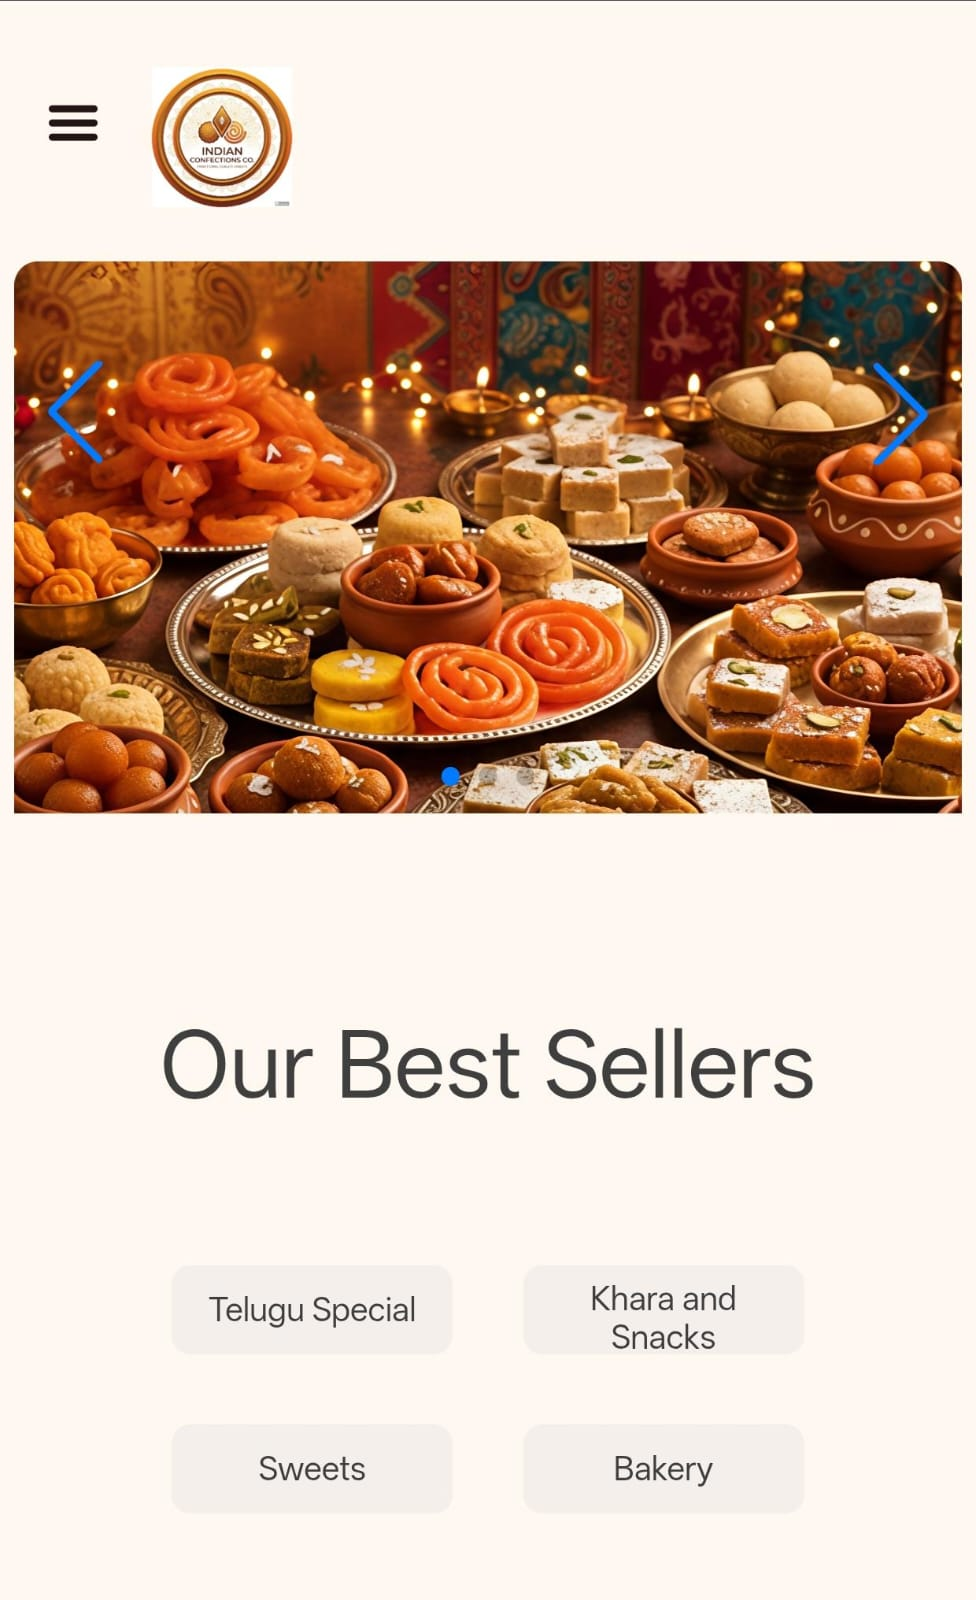
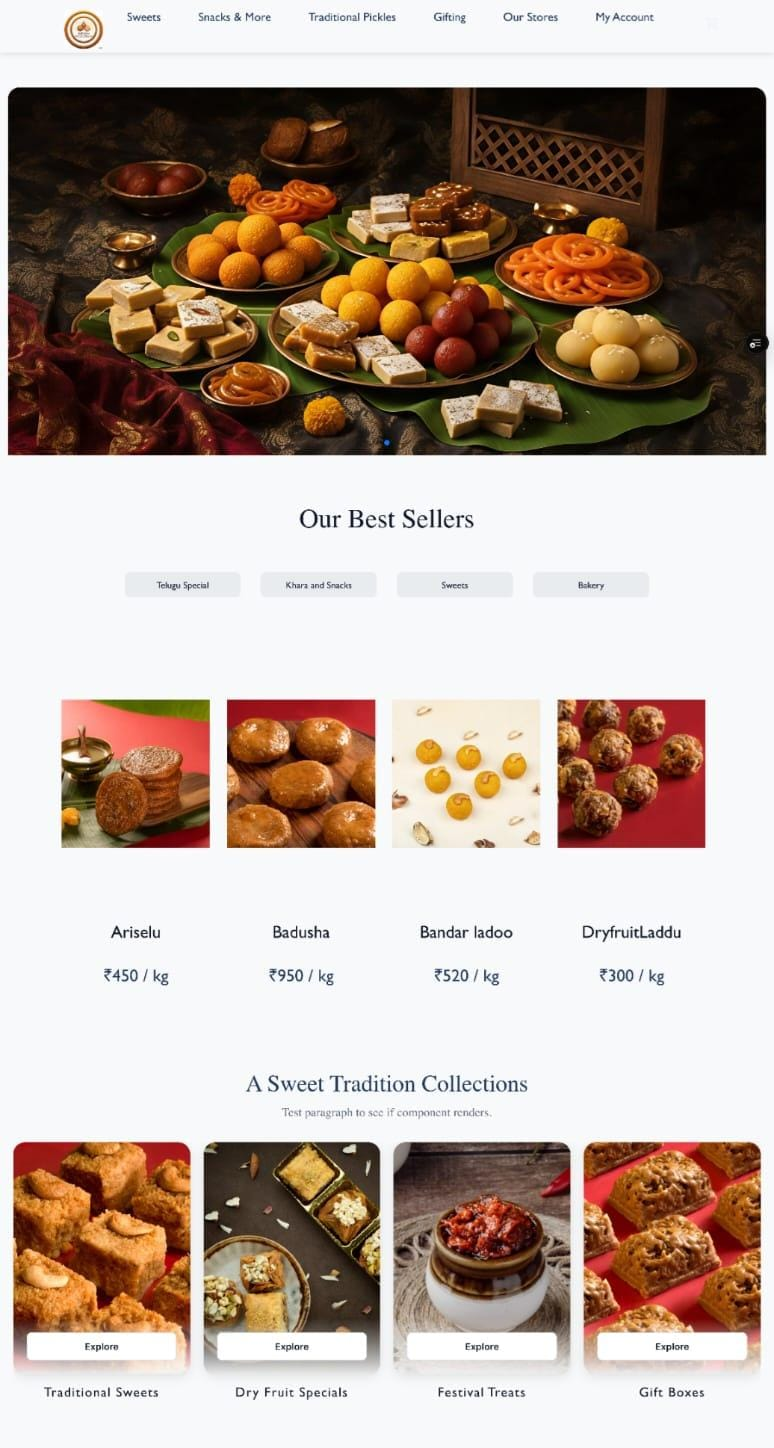
images added

diff --git a/lib/data.ts b/lib/data.ts
@@ -152,163 +152,160 @@ export const PROJECTS: IProject[] = [
         `,
         techStack: [
             'React.js',
-            'Tailwind CSS',
+            'CSS',
             'Node.js',
             'Express.js',
             'MongoDB',
             'JWT Authentication',
             'REST APIs',
         ],
-<<<<<<< Updated upstream
-        thumbnail: '/projects/thumbnail/mti-electronics.webp',
-        longThumbnail: '/projects/long/mti-electronics.webp',
-=======
-        thumbnail: '/projects/thumbnail/storelytumbnail.jpeg',
-        longThumbnail: '/projects/thumbnail/storelytumbnail.jpeg',
->>>>>>> Stashed changes
+        thumbnail: '/projects/thumbnail/storely-thumbanil.jpeg',
+        longThumbnail: '/projects/long/storely.png',
         images: [
-            '/projects/images/mti-electronics-1.webp',
-            '/projects/images/mti-electronics-2.webp',
+            '/projects/images/storely-1.png',
+            '/projects/images/storely-2.png',
+            '/projects/images/storely-3.png',
         ],
     },
     {
-        title: 'Epikcart',
-        slug: 'epikcart',
+        title: 'Kwality-Sweets',
+        slug: 'Kwality-Sweets',
         techStack: [
-            'React',
-            'Redux',
-            'React i18n',
-            'Tailwind CSS',
+            'React Js',
+            'Slider Js',
+            'CSS',
             'Framer Motion',
             'debouncing',
-            'Api Integration',
         ],
-<<<<<<< Updated upstream
-        thumbnail: '/projects/thumbnail/epikcart.jpg',
-        longThumbnail: '/projects/long/epikcart.jpg',
-=======
-        thumbnail: '/projects/thumbnail/Sweets_delight.jpeg',
-        longThumbnail: '/projects/thumbnail/Sweets_delight.jpeg',
->>>>>>> Stashed changes
+        thumbnail: '/projects/thumbnail/sweets_delight.jpeg',
+        longThumbnail: '/projects/long/sweetsdelight.png',
         images: [
-            '/projects/images/epikcart-1.png',
-            '/projects/images/epikcart-2.png',
-            '/projects/images/epikcart-3.png',
-            '/projects/images/epikcart-4.png',
-            '/projects/images/epikcart-5.png',
+            '/projects/images/sweetsdelight.1.png',
+            '/projects/images/sweetsdelight-2.png',
+            '/projects/images/sweetsdelight-3.png',
+            '/projects/images/sweetsdelight-4.png',
         ],
-        liveUrl: 'https://demo.epikcart.siphertech.com/',
-        year: 2023,
-        description: `Epikcart is a feature-rich, scalable e-commerce platform tailored for large businesses. It features dynamic product filtering, multi-language support with RTL, advanced inventory management, order tracking, and refund systems, offering a comprehensive solution for multi-vendor operations.`,
-        role: `As the frontend developer in a team of five, I: <br/>
-        - Built the frontend from scratch using React, Redux, RTK Query, and Tailwind CSS.<br/>
-        - Developed dynamic filtering logic for the product search page with admin-configurable parameters.<br/>
-        - Integrated multi-language support with React i18n, including RTL handling.<br/>
-        - Delivered a responsive, user-friendly interface in collaboration with the UI/UX designer.`,
-    },
-    {
-        title: 'Resume Roaster',
-        slug: 'resume-roaster',
-        techStack: [
-            'GPT-4',
-            'Next.js',
-            'Postgressql',
-            'Prisma',
-            'Tailwind CSS',
-        ],
-        thumbnail: '/projects/thumbnail/resume-roaster.jpg',
-        longThumbnail: '/projects/long/resume-roaster.jpg',
-        images: [
-            '/projects/images/resume-roaster-1.png',
-            '/projects/images/resume-roaster-2.png',
-            '/projects/images/resume-roaster-3.png',
-        ],
-        liveUrl: 'https://resume-roaster.vercel.app/',
-        year: 2023,
-        description:
-            'Resume Roaster is a web application designed to provide tailored resume feedback and professional writing services. Built with Next.js, PostgreSQL, Prisma, and Tailwind CSS, it integrates GPT-4 for AI-powered recommendations. The platform also includes peer-to-peer reviews with a points-based system, fostering a collaborative and engaging experience. Targeting freshers, experienced professionals, and programmers, it helps optimize resumes for job-specific success.',
-        role: `As the sole developer and business owner, I:<br/>
-        - Designed and developed the platform end-to-end using Next.js, PostgreSQL, Prisma, and Tailwind CSS.<br/>
-        - Integrated GPT-4 for AI-driven feedback and insights.<br/>
-        - Implemented complex SQL queries, including one to identify the top two resumes based on user points.`,
-    },
-    {
-        title: 'Real Estate',
-        slug: 'property-pro',
-        techStack: [
-            'React.js',
-            'Redux',
-            'Tailwind CSS',
-            'React i18n',
-            'Framer Motion',
-        ],
-        thumbnail: '/projects/thumbnail/property-pro.jpg',
-        longThumbnail: '/projects/long/property-pro.jpg',
-        images: [
-            '/projects/images/property-pro-1.png',
-            '/projects/images/property-pro-2.png',
-            '/projects/images/property-pro-3.png',
-        ],
-        liveUrl: 'https://demo.propertypro.siphertech.com/',
-        year: 2023,
-        description:
-            'PropertyPro is a real estate management platform offering users a seamless experience to explore, manage, and view property listings. The application emphasizes accessibility and responsive design, ensuring a smooth interface across devices.',
-        role: `As the frontend developer, I:<br/>
-        - Built the frontend using React, Redux, RTK Query, Framer Motion, and Tailwind CSS.<br/>
-        - Integrated dynamic state management for efficient handling of property data.<br/>
-        - Implemented multi-language support with React i18n to cater to diverse audiences.<br/>
-        - Enhanced user interaction with animations and transitions using Framer Motion.`,
-    },
-    {
-        title: 'Consulting Finance',
-        slug: 'crenotive',
-        techStack: ['HTML', 'CSS & SCSS', 'Javascript', 'Bootstrap'],
-        thumbnail: '/projects/thumbnail/consulting-finance.jpg',
-        longThumbnail: '/projects/long/consulting-finance.jpg',
-        images: [
-            '/projects/images/consulting-finance-1.png',
-            '/projects/images/consulting-finance-2.png',
-            '/projects/images/consulting-finance-3.png',
-        ],
-        sourceCode: 'https://github.com/Tajmirul/crenotive',
-        liveUrl: 'https://crenotive.netlify.app/',
-        year: 2023,
-        description:
-            'I developed Crenotive, a portfolio website using Html, SASS, and jQuery to showcase services and expertise. The design focuses on responsive user experience and effective presentation of professional achievements.',
-        role: ``,
-    },
-    {
-        title: 'devLinks',
-        slug: 'devLinks',
-        techStack: ['Next.js', 'Formik', 'Drag & Drop', 'Tailwind CSS'],
-        thumbnail: '/projects/thumbnail/devLinks.jpg',
-        longThumbnail: '/projects/long/devLinks.jpg',
-        images: [
-            '/projects/images/devLinks-1.png',
-            '/projects/images/devLinks-2.png',
-            '/projects/images/devLinks-3.png',
-        ],
-        sourceCode: 'https://github.com/Tajmirul/devsLink',
-        liveUrl: 'https://devlinks-demo.vercel.app/auth/signin',
-        year: 2023,
-        description: `One of the most challenging projects in Frontend Mentor.<br/><br/>
+        liveUrl: 'https://sweetsdelight.vercel.app/',
+        year: 2025,
+        description: `Sweets Delight is a scalable and interactive e-commerce frontend inspired by traditional Indian sweet brands. The application incorporates dynamic product rendering, animated UI transitions using Framer Motion, and responsive carousels built with Swiper.js. The project emphasizes modular design, maintainability, and customizable theming through CSS root variables.`,
 
-            I developed a LinkSharing App as part of the Frontend Mentor challenge, utilizing React, Redux, and Tailwind CSS to create a responsive and feature-rich platform. The app allows users to share, save, and explore links, with a focus on intuitive design and smooth navigation. Advanced state management ensures efficient data handling for user interactions.`,
-        role: ``,
-    },
+        role: `As the sole frontend developer, I:<br/>
+- Architected and developed the complete frontend using React, focusing on performance and maintainability.<br/>
+- Implemented Swiper.js-based interactive sliders for hero and product showcases to improve visual engagement.<br/>
+- Integrated Framer Motion to deliver smooth animations, transitions, and enhanced user experience.<br/>
+- Designed and built reusable UI components including Navbar, Hero, ProductCard, Products, and Footer.<br/>
+- Structured the project with a scalable and clean folder architecture to support future feature expansion.<br/>
+- Developed a global theming system using CSS variables, enabling flexible and consistent design updates.<br/>
+- Optimized layouts for responsiveness, ensuring a seamless experience across devices and screen sizes.`,
+},
+    // {
+    //     title: 'Resume Roaster',
+    //     slug: 'resume-roaster',
+    //     techStack: [
+    //         'GPT-4',
+    //         'Next.js',
+    //         'Postgressql',
+    //         'Prisma',
+    //         'Tailwind CSS',
+    //     ],
+    //     thumbnail: '/projects/thumbnail/resume-roaster.jpg',
+    //     longThumbnail: '/projects/long/resume-roaster.jpg',
+    //     images: [
+    //         '/projects/images/resume-roaster-1.png',
+    //         '/projects/images/resume-roaster-2.png',
+    //         '/projects/images/resume-roaster-3.png',
+    //     ],
+    //     liveUrl: 'https://resume-roaster.vercel.app/',
+    //     year: 2023,
+    //     description:
+    //         'Resume Roaster is a web application designed to provide tailored resume feedback and professional writing services. Built with Next.js, PostgreSQL, Prisma, and Tailwind CSS, it integrates GPT-4 for AI-powered recommendations. The platform also includes peer-to-peer reviews with a points-based system, fostering a collaborative and engaging experience. Targeting freshers, experienced professionals, and programmers, it helps optimize resumes for job-specific success.',
+    //     role: `As the sole developer and business owner, I:<br/>
+    //     - Designed and developed the platform end-to-end using Next.js, PostgreSQL, Prisma, and Tailwind CSS.<br/>
+    //     - Integrated GPT-4 for AI-driven feedback and insights.<br/>
+    //     - Implemented complex SQL queries, including one to identify the top two resumes based on user points.`,
+    // },
+    // {
+    //     title: 'Real Estate',
+    //     slug: 'property-pro',
+    //     techStack: [
+    //         'React.js',
+    //         'Redux',
+    //         'Tailwind CSS',
+    //         'React i18n',
+    //         'Framer Motion',
+    //     ],
+    //     thumbnail: '/projects/thumbnail/property-pro.jpg',
+    //     longThumbnail: '/projects/long/property-pro.jpg',
+    //     images: [
+    //         '/projects/images/property-pro-1.png',
+    //         '/projects/images/property-pro-2.png',
+    //         '/projects/images/property-pro-3.png',
+    //     ],
+    //     liveUrl: 'https://demo.propertypro.siphertech.com/',
+    //     year: 2023,
+    //     description:
+    //         'PropertyPro is a real estate management platform offering users a seamless experience to explore, manage, and view property listings. The application emphasizes accessibility and responsive design, ensuring a smooth interface across devices.',
+    //     role: `As the frontend developer, I:<br/>
+    //     - Built the frontend using React, Redux, RTK Query, Framer Motion, and Tailwind CSS.<br/>
+    //     - Integrated dynamic state management for efficient handling of property data.<br/>
+    //     - Implemented multi-language support with React i18n to cater to diverse audiences.<br/>
+    //     - Enhanced user interaction with animations and transitions using Framer Motion.`,
+    // },
+    // {
+    //     title: 'Consulting Finance',
+    //     slug: 'crenotive',
+    //     techStack: ['HTML', 'CSS & SCSS', 'Javascript', 'Bootstrap'],
+    //     thumbnail: '/projects/thumbnail/consulting-finance.jpg',
+    //     longThumbnail: '/projects/long/consulting-finance.jpg',
+    //     images: [
+    //         '/projects/images/consulting-finance-1.png',
+    //         '/projects/images/consulting-finance-2.png',
+    //         '/projects/images/consulting-finance-3.png',
+    //     ],
+    //     sourceCode: 'https://github.com/Tajmirul/crenotive',
+    //     liveUrl: 'https://crenotive.netlify.app/',
+    //     year: 2023,
+    //     description:
+    //         'I developed Crenotive, a portfolio website using Html, SASS, and jQuery to showcase services and expertise. The design focuses on responsive user experience and effective presentation of professional achievements.',
+    //     role: ``,
+    // },
+    // {
+    //     title: 'devLinks',
+    //     slug: 'devLinks',
+    //     techStack: ['Next.js', 'Formik', 'Drag & Drop', 'Tailwind CSS'],
+    //     thumbnail: '/projects/thumbnail/devLinks.jpg',
+    //     longThumbnail: '/projects/long/devLinks.jpg',
+    //     images: [
+    //         '/projects/images/devLinks-1.png',
+    //         '/projects/images/devLinks-2.png',
+    //         '/projects/images/devLinks-3.png',
+    //     ],
+    //     sourceCode: 'https://github.com/Tajmirul/devsLink',
+    //     liveUrl: 'https://devlinks-demo.vercel.app/auth/signin',
+    //     year: 2023,
+    //     description: `One of the most challenging projects in Frontend Mentor.<br/><br/>
+
+    //         I developed a LinkSharing App as part of the Frontend Mentor challenge, utilizing React, Redux, and Tailwind CSS to create a responsive and feature-rich platform. The app allows users to share, save, and explore links, with a focus on intuitive design and smooth navigation. Advanced state management ensures efficient data handling for user interactions.`,
+    //     role: ``,
+    // },
 ];
 
 export const MY_EXPERIENCE = [
     {
+        title: 'Full Stack Developer',
+        company: 'Have Life Technology Solutions',
+        duration: 'JAN 2026 - Present',
+    },
+    {
         title: 'Project Intern',
         company: 'Indian Institute of Technology Dhanbad (IIT ISM)',
-        duration: 'AUG 2025 - Present',
+        duration: 'AUG 2025 - JAN 2026',
     },
     {
         title: 'Frontend Developer',
         company: 'SSIT',
         duration: 'JUN 2025 - AUG 2025',
-    },
+    }
     // {
     //     title: 'Frontend Engineer',
     //     company: 'Anchorblock Technology',
